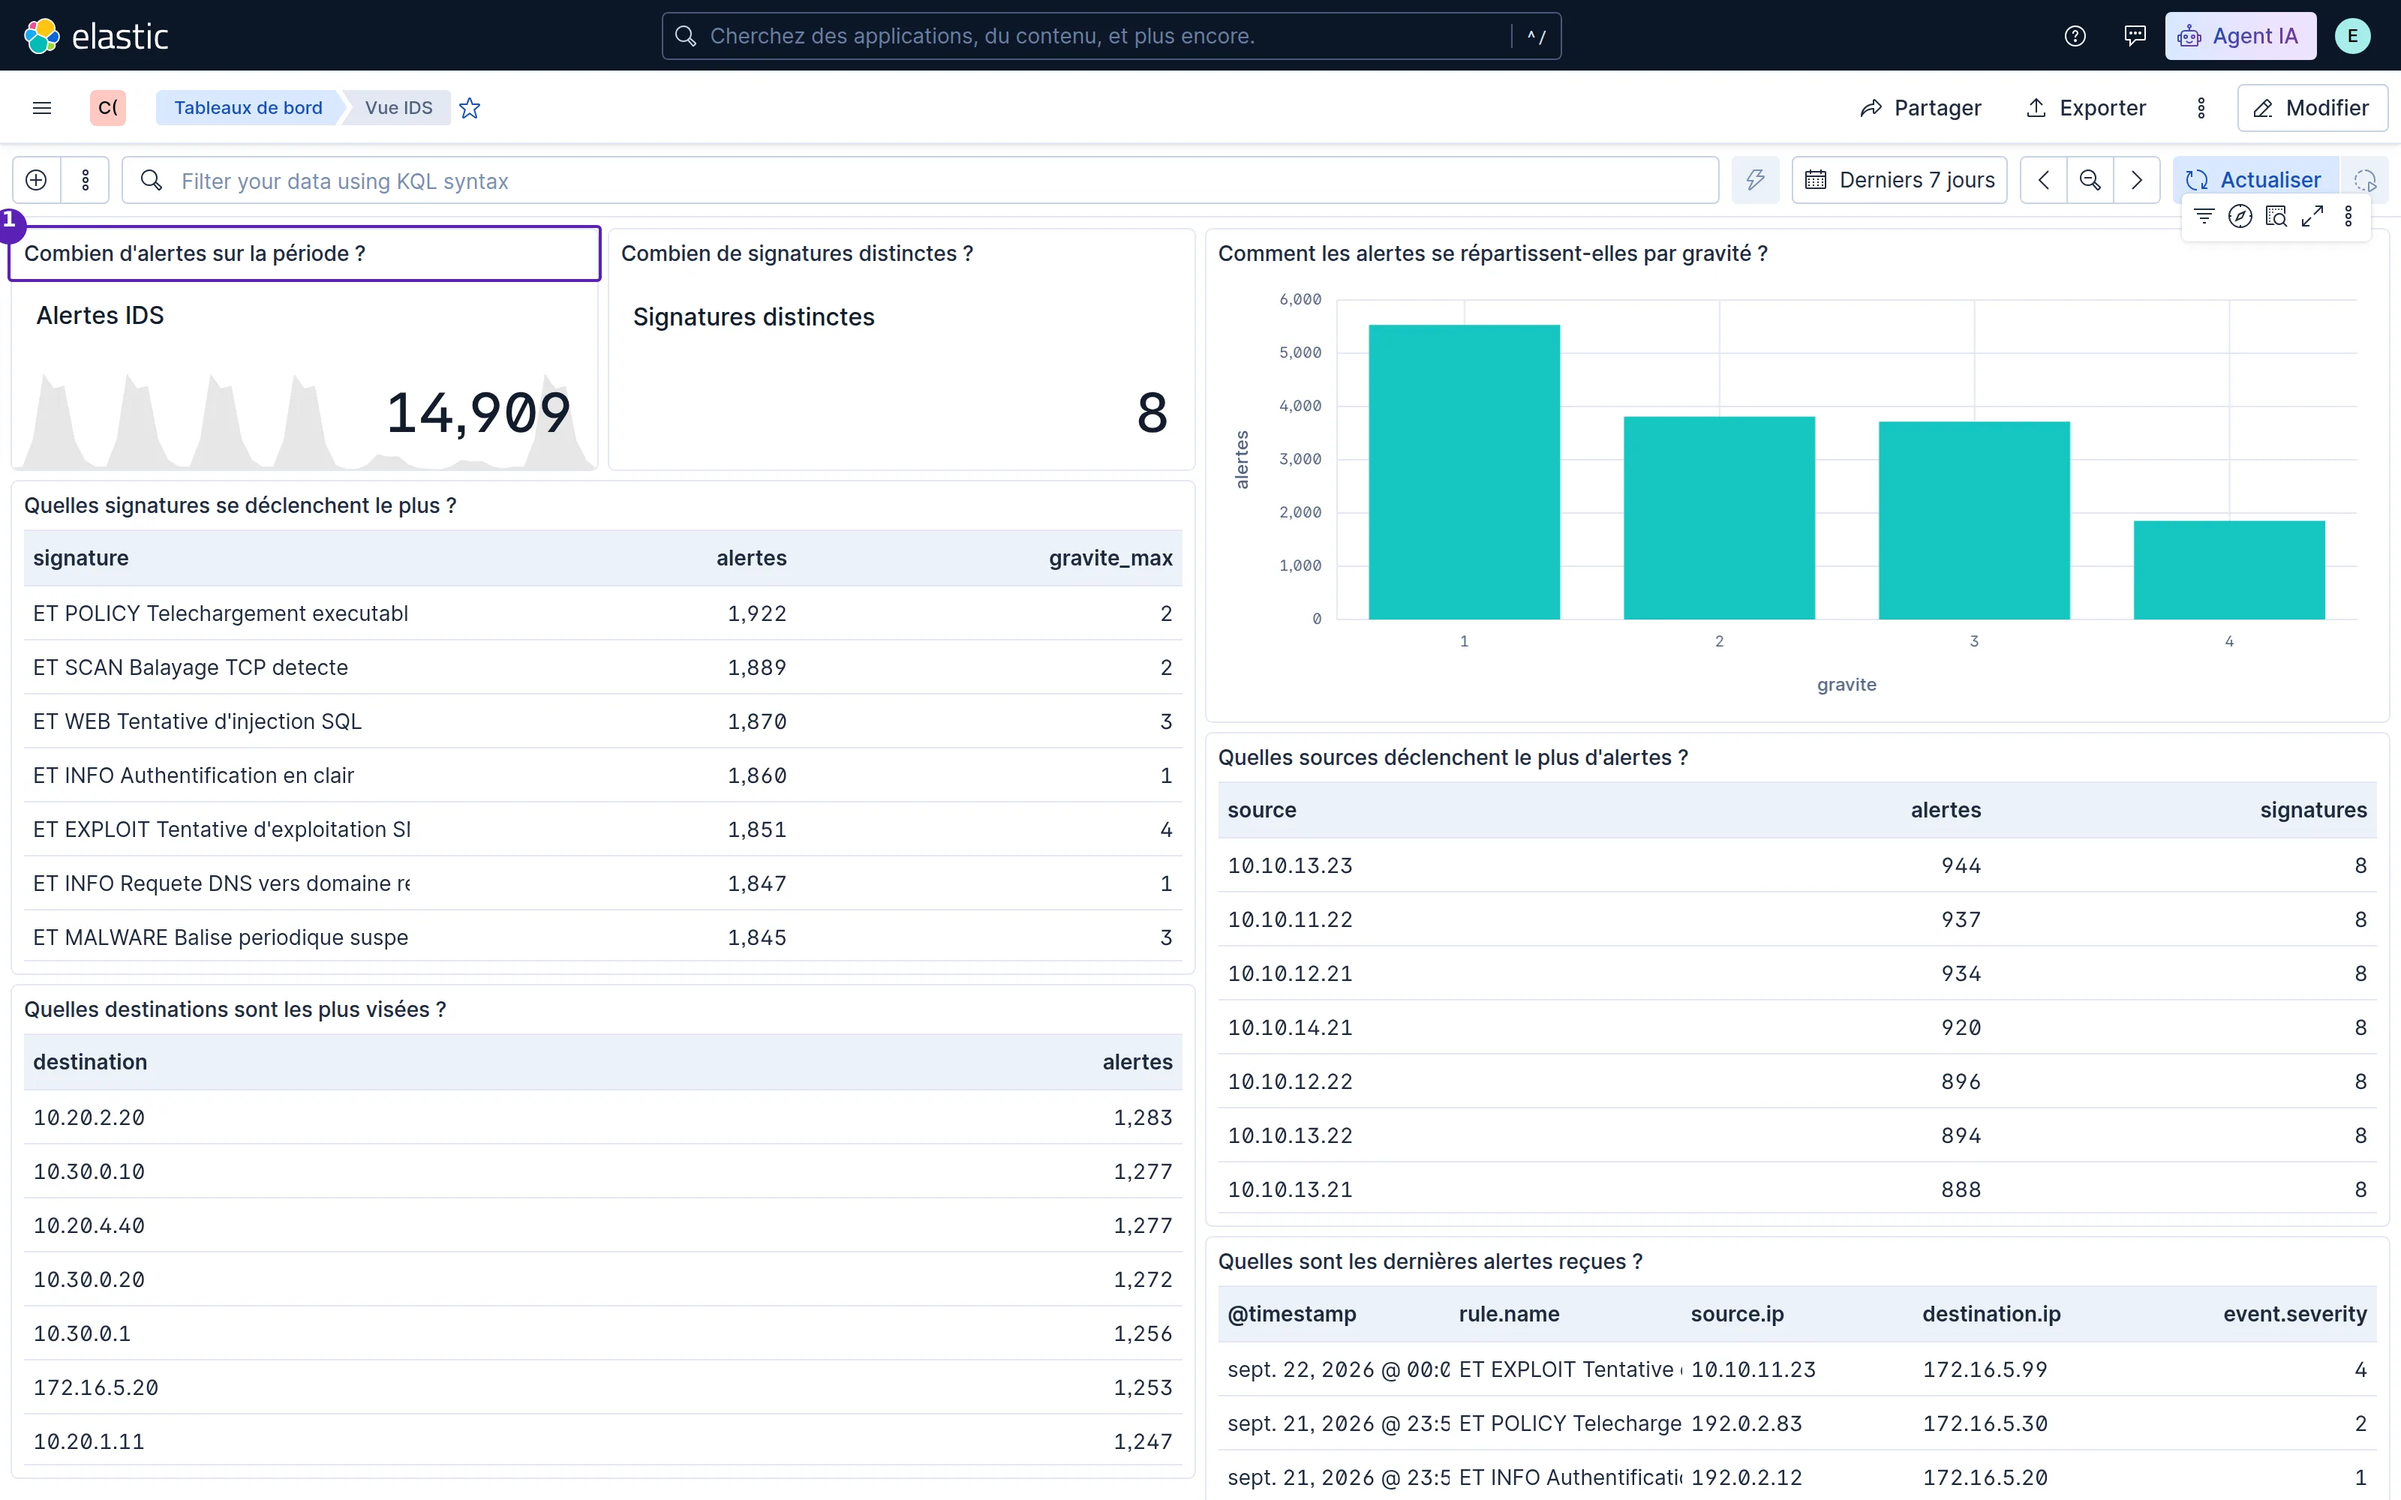
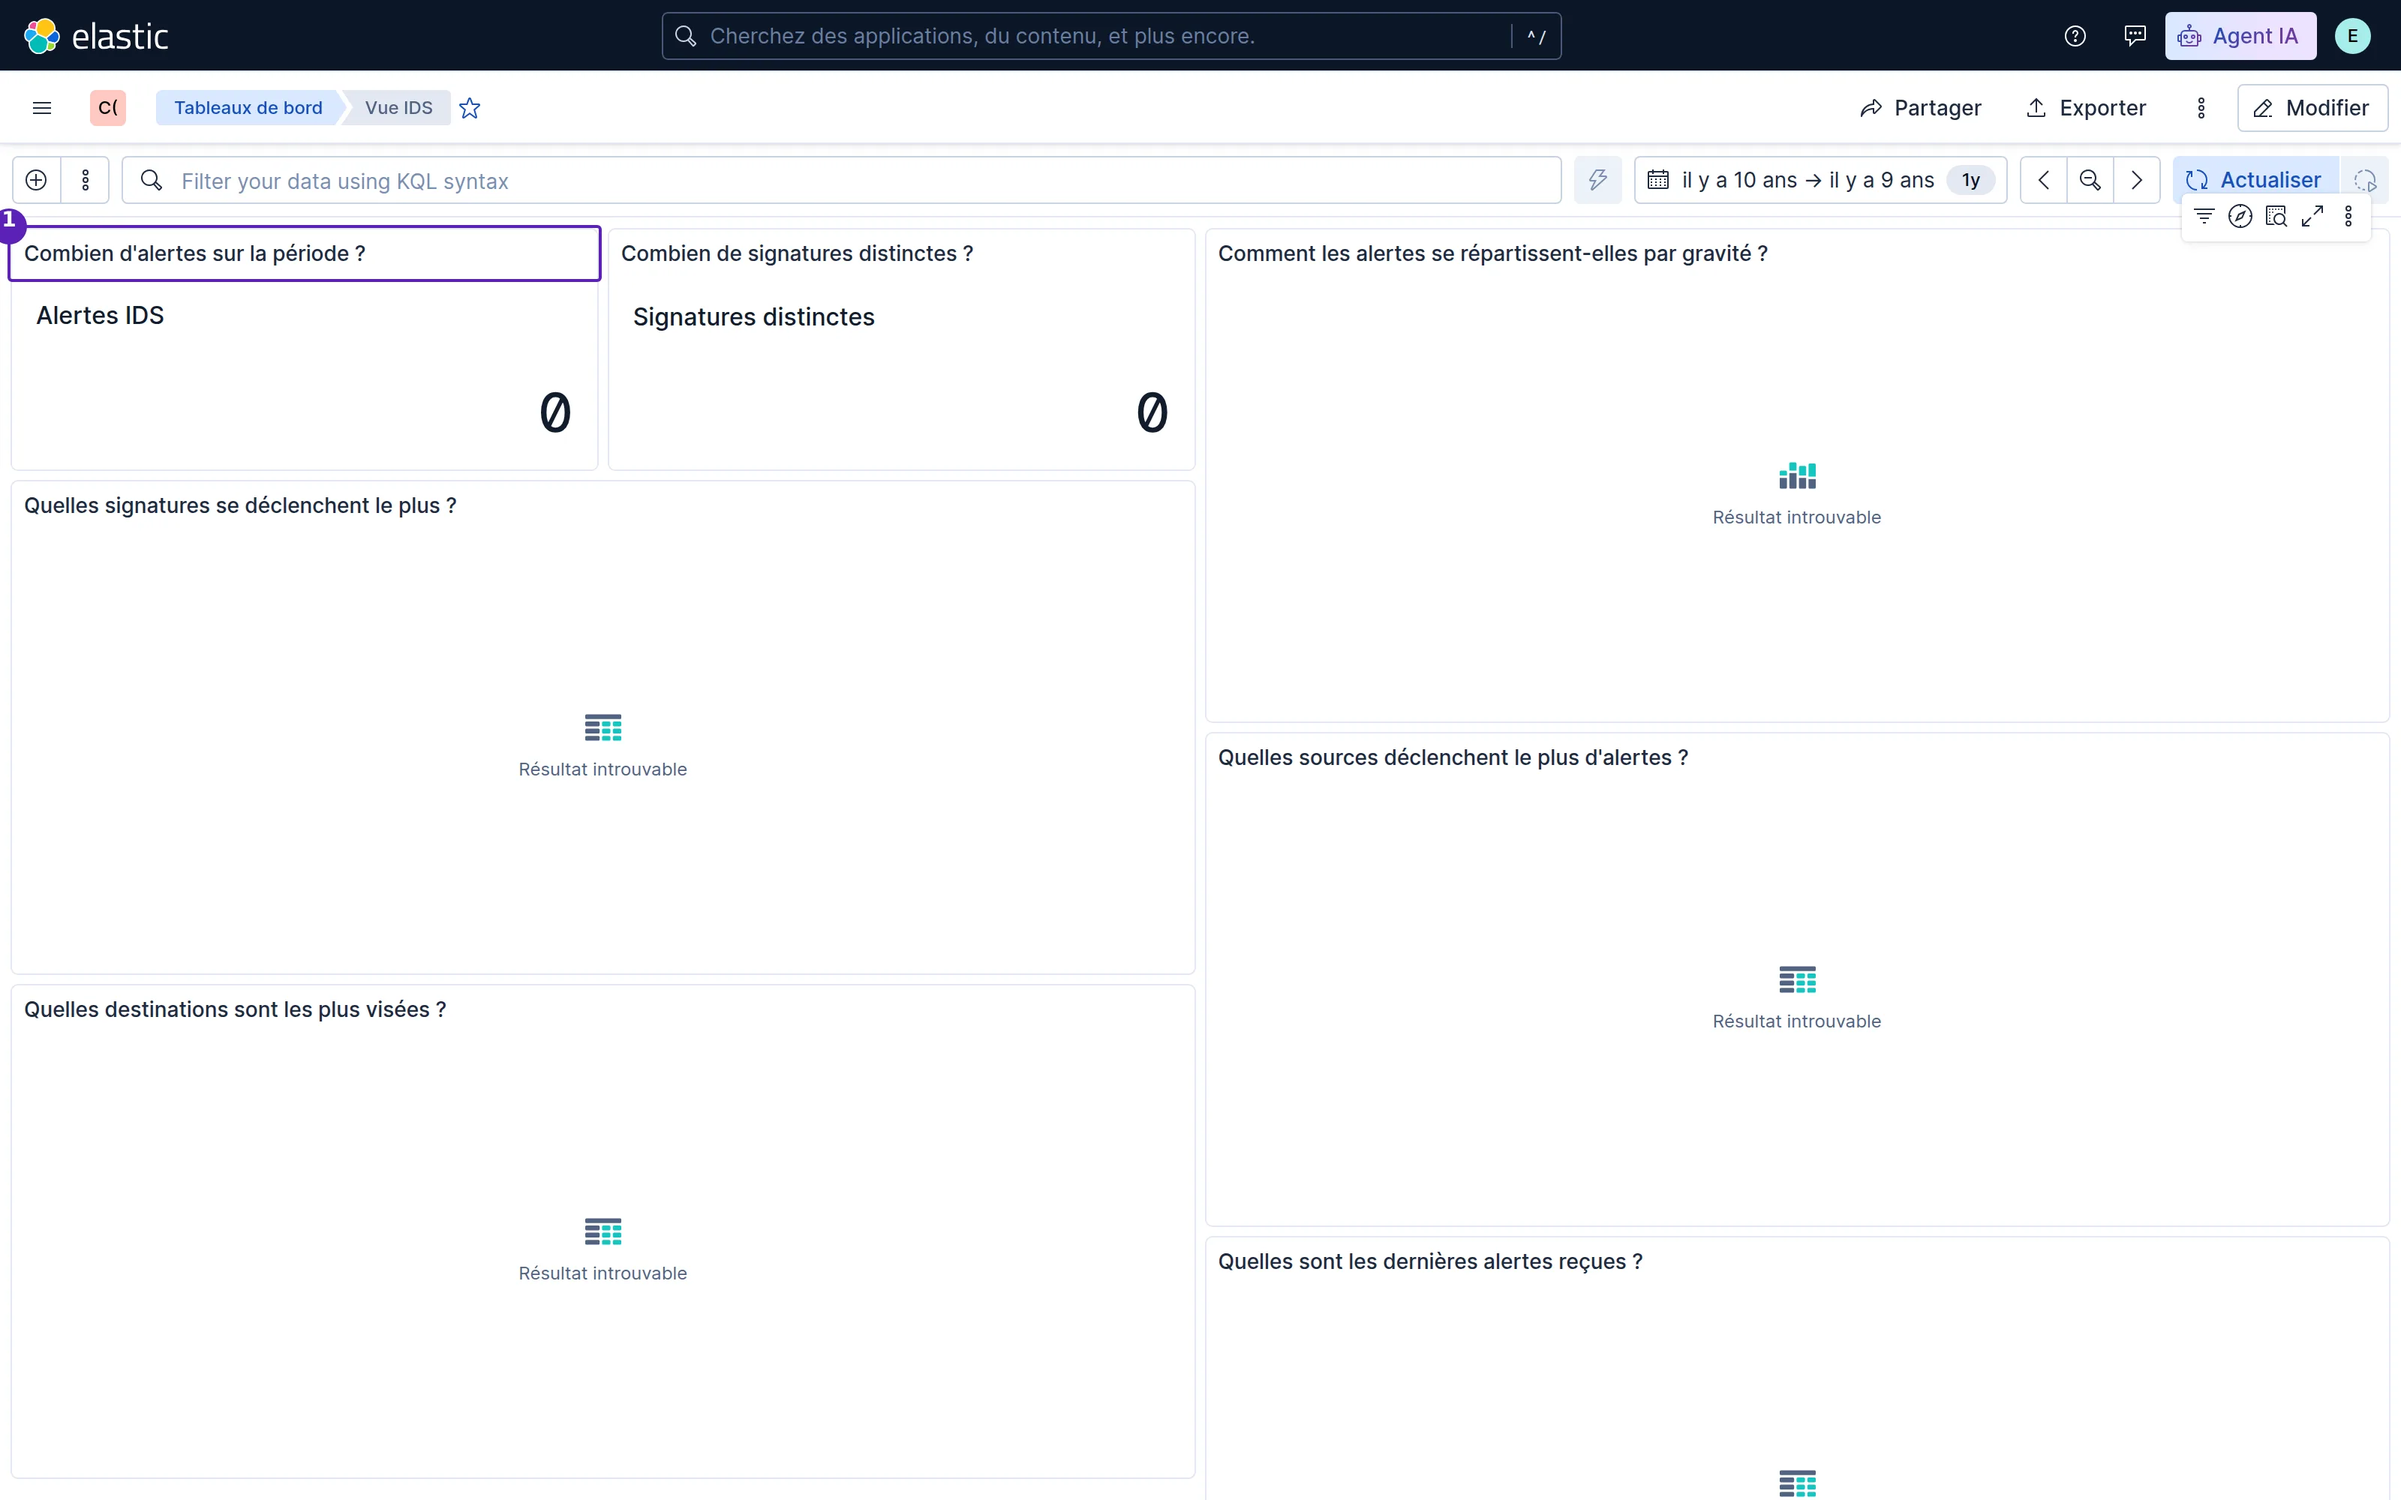
P8 — les captures des corrigés publiaient les réponses en image
M3-C1 et M4-C1 étaient prises dans le Space « corriges », sur les tableaux de
bord du corrigé, à leur plage enregistrée : les indicateurs affichaient les
nombres attendus et les titres de panneaux SONT les questions des exercices.
Douze exercices se résolvaient en regardant le guide, sans ouvrir Kibana.
outils/fuites.py lit du texte ; une image ne passe sous aucun de ses filtres,
et il n'a rien signalé — il n'avait rien à signaler.

Les deux captures restent — la structure d'un tableau de bord s'enseigne mal
sans image — mais sur une plage épinglée dix ans en arrière, donc vide. Légende
et texte alternatif le disent, et disent que ce sont les titres qu'il faut lire.
Image relue directement après « make captures » : les cinq titres sont là,
chaque valeur affiche 0 ou « Résultat introuvable », et le sélecteur de plage
lit « il y a 10 ans → il y a 9 ans ».

Le garde qui manquait : toute capture visant un Space à réponses doit épingler
une plage entièrement antérieure au jeu de données. Doublé d'un contrôle
d'exhaustivité, sans lequel une image publiée hors plan le contournerait.

Claude-Session: https://claude.ai/code/session_01CGfpaY5oNxugpvdiv5kCBU

diff --git a/kibana-soc-kit/verif/test_guide.py b/kibana-soc-kit/verif/test_guide.py
@@ -12,6 +12,7 @@ import re
 from pathlib import Path
 
 import pytest
+import yaml
 from playwright.sync_api import sync_playwright
 
 from outils.fuites import chercher as chercher_fuites
@@ -314,4 +315,118 @@ def test_aucune_entite_html_cassee(html):
     assert not cassees, (
         f"{len(cassees)} entité(s) HTML disloquée(s) par la typographie, "
         f"par exemple {cassees[:3]}"
+    )
+
+
+# --------------------------------------------------------------------------
+# Les captures : une image ne passe sous aucun garde de fuite
+# --------------------------------------------------------------------------
+
+# Les Spaces où vivent les réponses : les corrigés (titres et valeurs des
+# tableaux de bord de M3 et M4) et le jeu de l'épreuve.
+ESPACES_A_REPONSES = ("corriges", "epreuve")
+
+# Unités de plage relative de Kibana, converties en jours.
+_JOURS = {"s": 1 / 86400, "m": 1 / 1440, "h": 1 / 24, "d": 1, "w": 7, "M": 30, "y": 365}
+_RELATIF = re.compile(r"^now(?:-(\d+)([smhdwMy]))?(?:/[smhdwMy])?$")
+
+
+def _jours_avant_maintenant(expression: str) -> float | None:
+    """« now-9y » → 3285 jours. None si l'expression n'est pas relative à « now »."""
+    m = _RELATIF.match(expression.strip())
+    if not m:
+        return None
+    if m.group(1) is None:
+        return 0.0
+    return int(m.group(1)) * _JOURS[m.group(2)]
+
+
+@pytest.fixture(scope="module")
+def plan_de_capture(config):
+    chemin = config.RACINE / "captures" / "plan.yaml"
+    if not chemin.exists():
+        pytest.skip("NON EXÉCUTÉ : captures/plan.yaml absent.")
+    return yaml.safe_load(chemin.read_text(encoding="utf-8")) or []
+
+
+def test_aucune_capture_du_guide_ne_montre_les_donnees_d_un_space_a_reponses(
+    plan_de_capture, config
+):
+    """Une capture prise sur un corrigé publie des réponses en image.
+
+    C'est par là qu'elles sont sorties. M3-C1 et M4-C1 étaient prises dans le
+    Space « corriges », sur les tableaux de bord du corrigé, à la plage par
+    défaut : les indicateurs affichaient les nombres attendus et les titres de
+    panneaux étaient les questions elles-mêmes. Douze exercices se résolvaient
+    en regardant le guide. Le garde de fuite de « outils/fuites.py » lit du
+    texte ; il ne voit rien d'une image, et n'a rien signalé.
+
+    Ces captures restent utiles — la STRUCTURE d'un tableau de bord s'enseigne
+    mal sans image — mais elles doivent être prises sur une plage de temps
+    prouvablement hors des données, de sorte que chaque panneau soit vide.
+    D'où ce contrôle : toute capture visant un Space à réponses doit épingler
+    dans son chemin une plage entièrement antérieure au jeu de données.
+    """
+    fenetre = float(config.valeur("donnees.fenetre_jours"))
+    defauts = []
+
+    for capture in plan_de_capture:
+        espace = capture.get("espace")
+        if espace not in ESPACES_A_REPONSES:
+            continue
+        identifiant = capture.get("id", "?")
+        chemin = capture.get("chemin", "")
+
+        m = re.search(r"time:\(from:([^,)]+),to:([^,)]+)\)", chemin)
+        if not m:
+            defauts.append(
+                f"{identifiant} : vise le Space « {espace} » sans épingler de "
+                "plage de temps — les panneaux afficheront les valeurs du corrigé"
+            )
+            continue
+
+        debut, fin = (_jours_avant_maintenant(v.strip("'\"")) for v in m.groups())
+        if debut is None or fin is None:
+            defauts.append(
+                f"{identifiant} : plage « {m.group(1)} → {m.group(2)} » non "
+                "relative à « now » — impossible de prouver qu'elle est vide"
+            )
+            continue
+
+        # « fin » est l'âge, en jours, de la BORNE HAUTE de la plage capturée :
+        # elle doit être plus ancienne que le début du jeu de données.
+        if fin <= fenetre:
+            defauts.append(
+                f"{identifiant} : la plage capturée remonte jusqu'à il y a "
+                f"{fin:g} jour(s), alors que le jeu couvre les {fenetre:g} "
+                "derniers jours — les panneaux ne seront pas vides"
+            )
+        elif debut < fin:
+            defauts.append(
+                f"{identifiant} : plage inversée ({debut:g} < {fin:g} jours)"
+            )
+
+    assert not defauts, (
+        "captures susceptibles de publier des réponses en image :\n  "
+        + "\n  ".join(defauts)
+    )
+
+
+def test_toutes_les_captures_du_plan_sont_dans_le_guide(plan_de_capture, html):
+    """Le garde précédent ne vaut que s'il couvre bien les images publiées.
+
+    Si une capture entrait dans le guide sans passer par le plan, elle
+    échapperait au contrôle de plage ci-dessus. Les deux listes doivent donc
+    coïncider.
+    """
+    attendues = [c["id"] for c in plan_de_capture]
+    manquantes = [i for i in attendues if f"data-capture=\"{i}\"" not in html]
+    assert not manquantes, (
+        f"captures du plan absentes du guide : {manquantes} — lancez « make guide »"
+    )
+
+    publiees = set(re.findall(r'data-capture="([^"]+)"', html))
+    hors_plan = sorted(publiees - set(attendues))
+    assert not hors_plan, (
+        f"images publiées sans passer par le plan de capture : {hors_plan}"
     )
